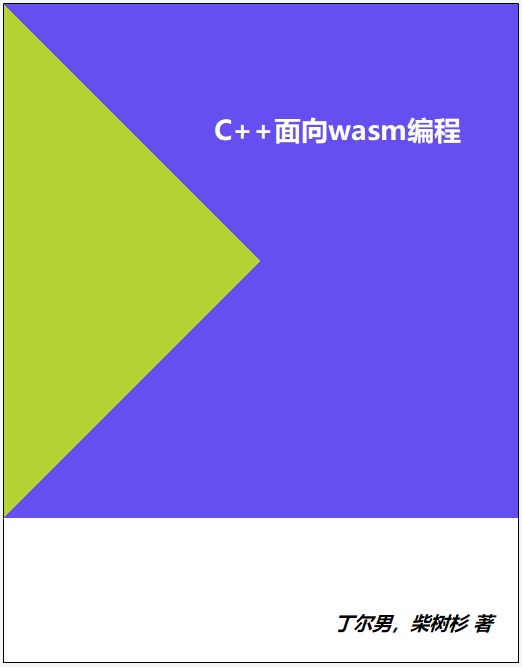
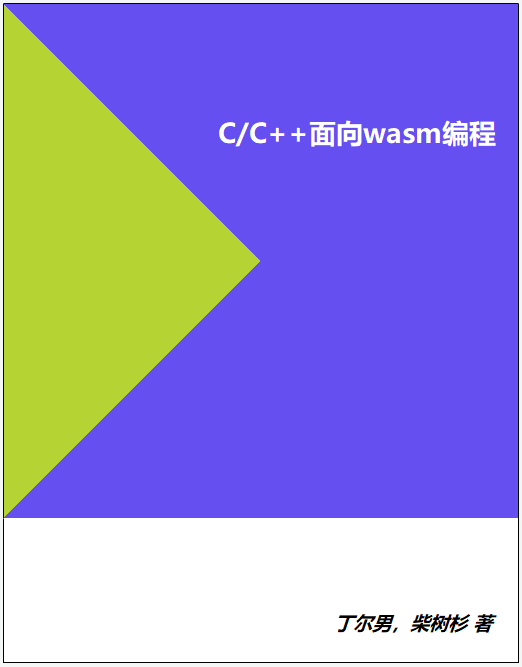
书名变更为《C/C++面向wasm编程》

Changed region(s): [[0.3985, 0.1799, 0.9502, 0.2399]]

diff --git a/README.md b/README.md
@@ -1,4 +1,4 @@
-# C++面向wasm编程——Emscripten工程实践
+# C/C++面向wasm编程——Emscripten工程实践
 
 > *Ending's law: "Any application that can be compiled to WebAssembly, will be compiled to WebAssembly eventually."*
 

diff --git a/preface.md b/preface.md
@@ -1,4 +1,4 @@
-# C++面向wasm编程——Emscripten工程实践
+# C/C++面向wasm编程——Emscripten工程实践
 
 > *Ending's law: "Any application that can be compiled to WebAssembly, will be compiled to WebAssembly eventually."*
 
